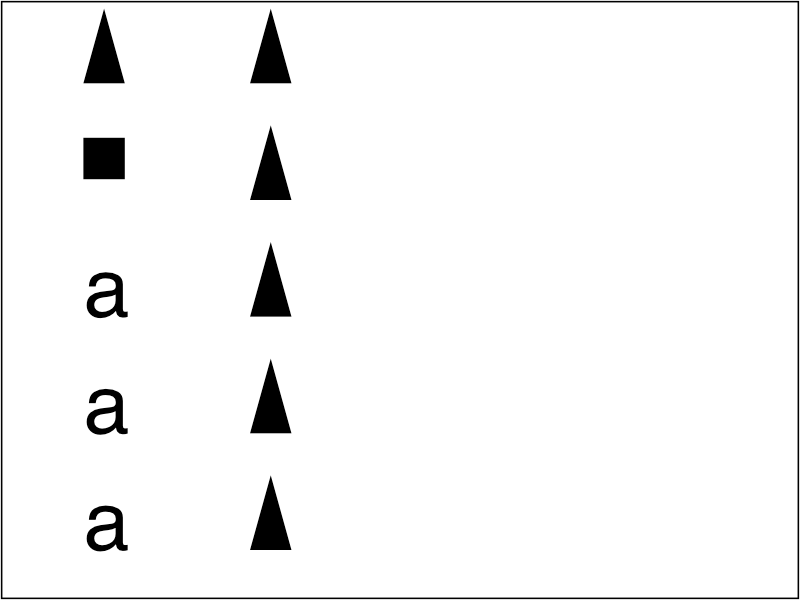
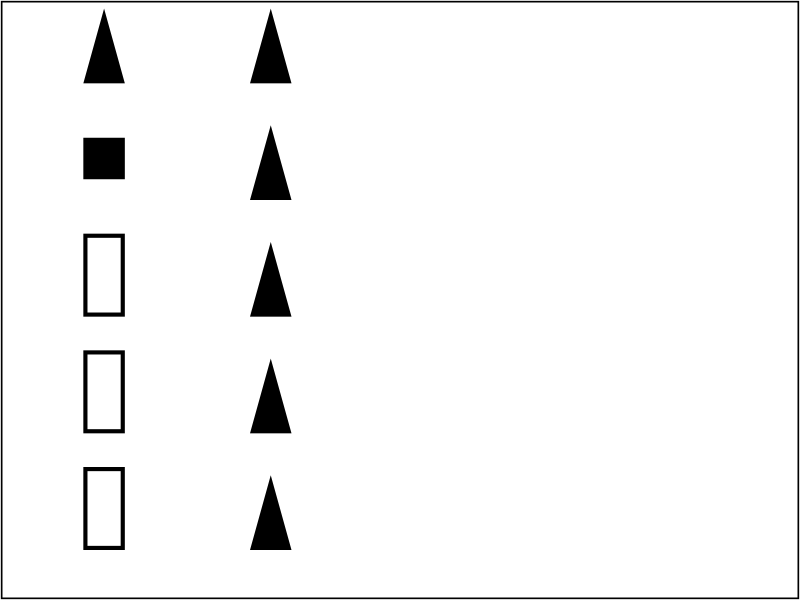
Stop returning GlyphPage from various Font functions https://bugs.webkit.org/show_bug.cgi?id=139627
Reviewed by Darin Adler.

Source/WebCore:

Make all

    std::pair<GlyphData, GlyphPage*> glyphDataAndPage*(...)

style functions to just return GlyphData only. The GlyphPage value was only used for an obscure SVG fallback case.

* platform/graphics/Font.h:
(WebCore::Font::glyphDataForCharacter):
(WebCore::Font::glyphDataAndPageForCharacter): Deleted.
* platform/graphics/FontGlyphs.cpp:
(WebCore::glyphDataForCJKCharacterWithoutSyntheticItalic):
(WebCore::glyphDataForNonCJKCharacterWithGlyphOrientation):
(WebCore::FontGlyphs::glyphDataForSystemFallback):
(WebCore::FontGlyphs::glyphDataForVariant):
(WebCore::FontGlyphs::glyphDataForCharacter):
(WebCore::glyphDataAndPageForCJKCharacterWithoutSyntheticItalic): Deleted.
(WebCore::glyphDataAndPageForNonCJKCharacterWithGlyphOrientation): Deleted.
(WebCore::FontGlyphs::glyphDataAndPageForSystemFallback): Deleted.
(WebCore::FontGlyphs::glyphDataAndPageForVariant): Deleted.
(WebCore::FontGlyphs::glyphDataAndPageForCharacter): Deleted.
* platform/graphics/FontGlyphs.h:
(WebCore::FontGlyphs::GlyphPagesStateSaver::GlyphPagesStateSaver): Deleted.
(WebCore::FontGlyphs::GlyphPagesStateSaver::~GlyphPagesStateSaver): Deleted.

    No longer needed.

* rendering/svg/SVGTextRunRenderingContext.cpp:
(WebCore::SVGTextRunRenderingContext::glyphDataForCharacter):

    Simplify by not trying to resolve fallbacks in case context sensitive (based on lang attribute etc)
[…]

Changed region(s): [[0.0938, 0.78, 0.1562, 0.93], [0.0938, 0.57, 0.1562, 0.72], [0.0938, 0.39, 0.1562, 0.54]]

diff --git a/Source/WebCore/platform/graphics/FontGlyphs.cpp b/Source/WebCore/platform/graphics/FontGlyphs.cpp
@@ -209,7 +209,8 @@ static bool shouldIgnoreRotation(UChar32 character)
     return false;
 }
 
-static inline std::pair<GlyphData, GlyphPage*> glyphDataAndPageForCJKCharacterWithoutSyntheticItalic(UChar32 character, GlyphData& data, GlyphPage* page, unsigned pageNumber)
+#if PLATFORM(COCOA)
+static GlyphData glyphDataForCJKCharacterWithoutSyntheticItalic(UChar32 character, GlyphData& data, unsigned pageNumber)
 {
     RefPtr<SimpleFontData> nonItalicFontData = data.fontData->nonSyntheticItalicFontData();
     GlyphPageTreeNode* nonItalicNode = GlyphPageTreeNode::getRootChild(nonItalicFontData.get(), pageNumber);
@@ -217,12 +218,13 @@ static inline std::pair<GlyphData, GlyphPage*> glyphDataAndPageForCJKCharacterWi
     if (nonItalicPage) {
         GlyphData nonItalicData = nonItalicPage->glyphDataForCharacter(character);
         if (nonItalicData.fontData)
-            return std::make_pair(nonItalicData, nonItalicPage);
+            return nonItalicData;
     }
-    return std::make_pair(data, page);
+    return data;
 }
+#endif
     
-static inline std::pair<GlyphData, GlyphPage*> glyphDataAndPageForNonCJKCharacterWithGlyphOrientation(UChar32 character, NonCJKGlyphOrientation orientation, GlyphData& data, GlyphPage* page, unsigned pageNumber)
+static GlyphData glyphDataForNonCJKCharacterWithGlyphOrientation(UChar32 character, NonCJKGlyphOrientation orientation, GlyphData& data, unsigned pageNumber)
 {
     if (orientation == NonCJKGlyphOrientationUpright || shouldIgnoreRotation(character)) {
         RefPtr<SimpleFontData> uprightFontData = data.fontData->uprightOrientationFontData();
@@ -232,11 +234,11 @@ static inline std::pair<GlyphData, GlyphPage*> glyphDataAndPageForNonCJKCharacte
             GlyphData uprightData = uprightPage->glyphDataForCharacter(character);
             // If the glyphs are the same, then we know we can just use the horizontal glyph rotated vertically to be upright.
             if (data.glyph == uprightData.glyph)
-                return std::make_pair(data, page);
+                return data;
             // The glyphs are distinct, meaning that the font has a vertical-right glyph baked into it. We can't use that
             // glyph, so we fall back to the upright data and use the horizontal glyph.
             if (uprightData.fontData)
-                return std::make_pair(uprightData, uprightPage);
+                return uprightData;
         }
     } else if (orientation == NonCJKGlyphOrientationVerticalRight) {
         RefPtr<SimpleFontData> verticalRightFontData = data.fontData->verticalRightOrientationFontData();
@@ -247,16 +249,16 @@ static inline std::pair<GlyphData, GlyphPage*> glyphDataAndPageForNonCJKCharacte
             // If the glyphs are distinct, we will make the assumption that the font has a vertical-right glyph baked
             // into it.
             if (data.glyph != verticalRightData.glyph)
-                return std::make_pair(data, page);
+                return data;
             // The glyphs are identical, meaning that we should just use the horizontal glyph.
             if (verticalRightData.fontData)
-                return std::make_pair(verticalRightData, verticalRightPage);
+                return verticalRightData;
         }
     }
-    return std::make_pair(data, page);
+    return data;
 }
 
-std::pair<GlyphData, GlyphPage*> FontGlyphs::glyphDataAndPageForSystemFallback(UChar32 c, const FontDescription& description, FontDataVariant variant, unsigned pageNumber, GlyphPageTreeNode& node)
+GlyphData FontGlyphs::glyphDataForSystemFallback(UChar32 c, const FontDescription& description, FontDataVariant variant, unsigned pageNumber, GlyphPageTreeNode& node)
 {
     ASSERT(node.page());
     ASSERT(node.isSystemFallback());
@@ -290,9 +292,9 @@ std::pair<GlyphData, GlyphPage*> FontGlyphs::glyphDataAndPageForSystemFallback(U
             node.page()->setGlyphDataForCharacter(c, data.glyph, data.fontData);
             data.fontData->setMaxGlyphPageTreeLevel(std::max(data.fontData->maxGlyphPageTreeLevel(), node.level()));
             if (!Font::isCJKIdeographOrSymbol(c) && data.fontData->platformData().orientation() != Horizontal && !data.fontData->isTextOrientationFallback())
-                return glyphDataAndPageForNonCJKCharacterWithGlyphOrientation(c, description.nonCJKGlyphOrientation(), data, fallbackPage, pageNumber);
+                return glyphDataForNonCJKCharacterWithGlyphOrientation(c, description.nonCJKGlyphOrientation(), data, pageNumber);
         }
-        return std::make_pair(data, node.page());
+        return data;
     }
 
     // Even system fallback can fail; use the missing glyph in that case.
@@ -302,10 +304,10 @@ std::pair<GlyphData, GlyphPage*> FontGlyphs::glyphDataAndPageForSystemFallback(U
         node.page()->setGlyphDataForCharacter(c, data.glyph, data.fontData);
         data.fontData->setMaxGlyphPageTreeLevel(std::max(data.fontData->maxGlyphPageTreeLevel(), node.level()));
     }
-    return std::make_pair(data, node.page());
+    return data;
 }
 
-std::pair<GlyphData, GlyphPage*> FontGlyphs::glyphDataAndPageForVariant(UChar32 c, const FontDescription& description, FontDataVariant variant, unsigned pageNumber, GlyphPageTreeNode*& node)
+GlyphData FontGlyphs::glyphDataForVariant(UChar32 c, const FontDescription& description, FontDataVariant variant, unsigned pageNumber, GlyphPageTreeNode*& node)
 {
     while (true) {
         if (GlyphPage* page = node->page()) {
@@ -315,30 +317,30 @@ std::pair<GlyphData, GlyphPage*> FontGlyphs::glyphDataAndPageForVariant(UChar32 
                 // But if it does, we will just render the capital letter big.
                 RefPtr<SimpleFontData> variantFontData = data.fontData->variantFontData(description, variant);
                 if (!variantFontData)
-                    return std::make_pair(data, page);
+                    return data;
 
                 GlyphPageTreeNode* variantNode = GlyphPageTreeNode::getRootChild(variantFontData.get(), pageNumber);
                 GlyphPage* variantPage = variantNode->page();
                 if (variantPage) {
                     GlyphData data = variantPage->glyphDataForCharacter(c);
                     if (data.fontData)
-                        return std::make_pair(data, variantPage);
+                        return data;
                 }
 
                 // Do not attempt system fallback off the variantFontData. This is the very unlikely case that
                 // a font has the lowercase character but the small caps font does not have its uppercase version.
-                return std::make_pair(variantFontData->missingGlyphData(), page);
+                return variantFontData->missingGlyphData();
             }
 
             if (node->isSystemFallback())
-                return glyphDataAndPageForSystemFallback(c, description, variant, pageNumber, *node);
+                return glyphDataForSystemFallback(c, description, variant, pageNumber, *node);
         }
 
         node = node->getChild(realizeFontDataAt(description, node->level()), pageNumber);
     }
 }
 
-std::pair<GlyphData, GlyphPage*> FontGlyphs::glyphDataAndPageForCharacter(const FontDescription& description, UChar32 c, bool mirror, FontDataVariant variant)
+GlyphData FontGlyphs::glyphDataForCharacter(const FontDescription& description, UChar32 c, bool mirror, FontDataVariant variant)
 {
     ASSERT(isMainThread());
 
@@ -364,7 +366,7 @@ std::pair<GlyphData, GlyphPage*> FontGlyphs::glyphDataAndPageForCharacter(const 
         node = GlyphPageTreeNode::getRootChild(realizeFontDataAt(description, 0), pageNumber);
 
     if (variant != NormalVariant)
-        return glyphDataAndPageForVariant(c, description, variant, pageNumber, node);
+        return glyphDataForVariant(c, description, variant, pageNumber, node);
 
     while (true) {
         if (GlyphPage* page = node->page()) {
@@ -372,24 +374,24 @@ std::pair<GlyphData, GlyphPage*> FontGlyphs::glyphDataAndPageForCharacter(const 
             if (data.fontData) {
                 if (data.fontData->platformData().orientation() == Vertical && !data.fontData->isTextOrientationFallback()) {
                     if (!Font::isCJKIdeographOrSymbol(c))
-                        return glyphDataAndPageForNonCJKCharacterWithGlyphOrientation(c, description.nonCJKGlyphOrientation(), data, page, pageNumber);
+                        return glyphDataForNonCJKCharacterWithGlyphOrientation(c, description.nonCJKGlyphOrientation(), data, pageNumber);
 
                     if (!data.fontData->hasVerticalGlyphs()) {
                         // Use the broken ideograph font data. The broken ideograph font will use the horizontal width of glyphs
                         // to make sure you get a square (even for broken glyphs like symbols used for punctuation).
-                        return glyphDataAndPageForVariant(c, description, BrokenIdeographVariant, pageNumber, node);
+                        return glyphDataForVariant(c, description, BrokenIdeographVariant, pageNumber, node);
                     }
 #if PLATFORM(COCOA)
                     if (data.fontData->platformData().syntheticOblique())
-                        return glyphDataAndPageForCJKCharacterWithoutSyntheticItalic(c, data, page, pageNumber);
+                        return glyphDataForCJKCharacterWithoutSyntheticItalic(c, data, pageNumber);
 #endif
                 }
 
-                return std::make_pair(data, page);
+                return data;
             }
 
             if (node->isSystemFallback())
-                return glyphDataAndPageForSystemFallback(c, description, variant, pageNumber, *node);
+                return glyphDataForSystemFallback(c, description, variant, pageNumber, *node);
         }
 
         node = node->getChild(realizeFontDataAt(description, node->level()), pageNumber);

diff --git a/Source/WebCore/rendering/svg/SVGTextRunRenderingContext.cpp b/Source/WebCore/rendering/svg/SVGTextRunRenderingContext.cpp
@@ -295,8 +295,7 @@ GlyphData SVGTextRunRenderingContext::glyphDataForCharacter(const Font& font, Wi
     const SimpleFontData* primaryFont = font.primaryFont();
     ASSERT(primaryFont);
 
-    std::pair<GlyphData, GlyphPage*> pair = font.glyphDataAndPageForCharacter(character, mirror, AutoVariant);
-    GlyphData glyphData = pair.first;
+    GlyphData glyphData = font.glyphDataForCharacter(character, mirror, AutoVariant);
 
     // Check if we have the missing glyph data, in which case we can just return.
     GlyphData missingGlyphData = primaryFont->missingGlyphData();
@@ -305,14 +304,7 @@ GlyphData SVGTextRunRenderingContext::glyphDataForCharacter(const Font& font, Wi
         return glyphData;
     }
 
-    // Save data from the font fallback list because we may modify it later. Do this before the
-    // potential change to glyphData.fontData below.
-    FontGlyphs* glyph = font.glyphs();
-    ASSERT(glyph);
-    FontGlyphs::GlyphPagesStateSaver glyphPagesSaver(*glyph);
-
     // Characters enclosed by an <altGlyph> element, may not be registered in the GlyphPage.
-    const SimpleFontData* originalFontData = glyphData.fontData;
     if (glyphData.fontData && !glyphData.fontData->isSVGFont()) {
         auto& elementRenderer = is<RenderElement>(renderer()) ? downcast<RenderElement>(renderer()) : *renderer().parent();
         if (Element* parentRendererElement = elementRenderer.element()) {
@@ -322,42 +314,32 @@ GlyphData SVGTextRunRenderingContext::glyphDataForCharacter(const Font& font, Wi
     }
 
     const SimpleFontData* fontData = glyphData.fontData;
-    if (fontData) {
-        if (!fontData->isSVGFont())
-            return glyphData;
+    if (!fontData || !fontData->isSVGFont())
+        return glyphData;
 
-        SVGFontElement* fontElement = nullptr;
-        SVGFontFaceElement* fontFaceElement = nullptr;
+    SVGFontElement* fontElement = nullptr;
+    SVGFontFaceElement* fontFaceElement = nullptr;
+    const SVGFontData* svgFontData = svgFontAndFontFaceElementForFontData(fontData, fontFaceElement, fontElement);
+    if (!svgFontData)
+        return glyphData;
 
-        const SVGFontData* svgFontData = svgFontAndFontFaceElementForFontData(fontData, fontFaceElement, fontElement);
-        if (!fontElement || !fontFaceElement)
-            return glyphData;
+    // If we got here, we're dealing with a glyph defined in a SVG Font.
+    // The returned glyph by glyphDataForCharacter() is a glyph stored in the SVG Font glyph table.
+    // This doesn't necessarily mean the glyph is suitable for rendering/measuring in this context, its
+    // arabic-form/orientation/... may not match, we have to apply SVG Glyph selection to discover that.
+    if (svgFontData->applySVGGlyphSelection(iterator, glyphData, mirror, currentCharacter, advanceLength, normalizedSpacesStringCache))
+        return glyphData;
+    if (missingGlyphData.glyph)
+        return missingGlyphData;
 
-        // If we got here, we're dealing with a glyph defined in a SVG Font.
-        // The returned glyph by glyphDataAndPageForCharacter() is a glyph stored in the SVG Font glyph table.
-        // This doesn't necessarily mean the glyph is suitable for rendering/measuring in this context, its
-        // arabic-form/orientation/... may not match, we have to apply SVG Glyph selection to discover that.
-        if (svgFontData->applySVGGlyphSelection(iterator, glyphData, mirror, currentCharacter, advanceLength, normalizedSpacesStringCache))
-            return glyphData;
-    }
+    // SVG font context sensitive selection failed and there is no defined missing glyph. Drop down to a default font.
+    // The behavior does not seem to be specified. For simplicity we don't try to resolve font fallbacks context-sensitively.
+    FontDescription fallbackDescription = font.fontDescription();
+    fallbackDescription.setFamilies(Vector<AtomicString> { sansSerifFamily });
+    Font fallbackFont(fallbackDescription, font.letterSpacing(), font.wordSpacing());
+    fallbackFont.update(font.fontSelector());
 
-    GlyphPage* page = pair.second;
-    ASSERT(page);
-
-    // No suitable glyph found that is compatible with the requirments (same language, arabic-form, orientation etc.)
-    // Even though our GlyphPage contains an entry for eg. glyph "a", it's not compatible. So we have to temporarily
-    // remove the glyph data information from the GlyphPage, and retry the lookup, which handles font fallbacks correctly.
-    page->setGlyphDataForCharacter(character, 0, nullptr);
-
-    // Assure that the font fallback glyph selection worked, aka. the fallbackGlyphData font data is not the same as before.
-    GlyphData fallbackGlyphData = font.glyphDataForCharacter(character, mirror);
-    ASSERT(fallbackGlyphData.fontData != fontData);
-
-    // Restore original state of the SVG Font glyph table and the current font fallback list,
-    // to assure the next lookup of the same glyph won't immediately return the fallback glyph.
-    page->setGlyphDataForCharacter(character, glyphData.glyph, originalFontData);
-    ASSERT(fallbackGlyphData.fontData);
-    return fallbackGlyphData;
+    return fallbackFont.glyphDataForCharacter(character, mirror, AutoVariant);
 }
 
 }

diff --git a/Source/WebCore/platform/graphics/FontGlyphs.h b/Source/WebCore/platform/graphics/FontGlyphs.h
@@ -47,27 +47,6 @@ class FontGlyphs : public RefCounted<FontGlyphs> {
 public:
     typedef HashMap<int, GlyphPageTreeNode*, DefaultHash<int>::Hash> GlyphPages;
 
-    class GlyphPagesStateSaver {
-    public:
-        GlyphPagesStateSaver(FontGlyphs& glyphs)
-            : m_glyphs(glyphs)
-            , m_pages(glyphs.m_pages)
-            , m_pageZero(glyphs.m_pageZero)
-        {
-        }
-
-        ~GlyphPagesStateSaver()
-        {
-            m_glyphs.m_pages = m_pages;
-            m_glyphs.m_pageZero = m_pageZero;
-        }
-
-    private:
-        FontGlyphs& m_glyphs;
-        GlyphPages& m_pages;
-        GlyphPageTreeNode* m_pageZero;
-    };
-
     static Ref<FontGlyphs> create(PassRefPtr<FontSelector> fontSelector) { return adoptRef(*new FontGlyphs(fontSelector)); }
     static Ref<FontGlyphs> createForPlatformFont(const FontPlatformData& platformData) { return adoptRef(*new FontGlyphs(platformData)); }
 
@@ -75,7 +54,7 @@ public:
 
     bool isForPlatformFont() const { return m_isForPlatformFont; }
 
-    std::pair<GlyphData, GlyphPage*> glyphDataAndPageForCharacter(const FontDescription&, UChar32, bool mirror, FontDataVariant);
+    GlyphData glyphDataForCharacter(const FontDescription&, UChar32, bool mirror, FontDataVariant);
 
     bool isFixedPitch(const FontDescription&);
     void determinePitch(const FontDescription&);
@@ -98,8 +77,8 @@ private:
     FontGlyphs(PassRefPtr<FontSelector>);
     FontGlyphs(const FontPlatformData&);
 
-    std::pair<GlyphData, GlyphPage*> glyphDataAndPageForSystemFallback(UChar32, const FontDescription&, FontDataVariant, unsigned pageNumber, GlyphPageTreeNode&);
-    std::pair<GlyphData, GlyphPage*> glyphDataAndPageForVariant(UChar32, const FontDescription&, FontDataVariant, unsigned pageNumber, GlyphPageTreeNode*&);
+    GlyphData glyphDataForSystemFallback(UChar32, const FontDescription&, FontDataVariant, unsigned pageNumber, GlyphPageTreeNode&);
+    GlyphData glyphDataForVariant(UChar32, const FontDescription&, FontDataVariant, unsigned pageNumber, GlyphPageTreeNode*&);
 
     WEBCORE_EXPORT void releaseFontData();
     

diff --git a/Source/WebCore/platform/graphics/Font.h b/Source/WebCore/platform/graphics/Font.h
@@ -187,15 +187,11 @@ public:
     const FontData* fontDataAt(unsigned) const;
     GlyphData glyphDataForCharacter(UChar32 c, bool mirror, FontDataVariant variant = AutoVariant) const
     {
-        return glyphDataAndPageForCharacter(c, mirror, variant).first;
+        return m_glyphs->glyphDataForCharacter(m_fontDescription, c, mirror, variant);
     }
 #if PLATFORM(COCOA)
     const SimpleFontData* fontDataForCombiningCharacterSequence(const UChar*, size_t length, FontDataVariant) const;
 #endif
-    std::pair<GlyphData, GlyphPage*> glyphDataAndPageForCharacter(UChar32 c, bool mirror, FontDataVariant variant) const
-    {
-        return m_glyphs->glyphDataAndPageForCharacter(m_fontDescription, c, mirror, variant);
-    }
     bool primaryFontHasGlyphForCharacter(UChar32) const;
 
     static bool isCJKIdeograph(UChar32);
